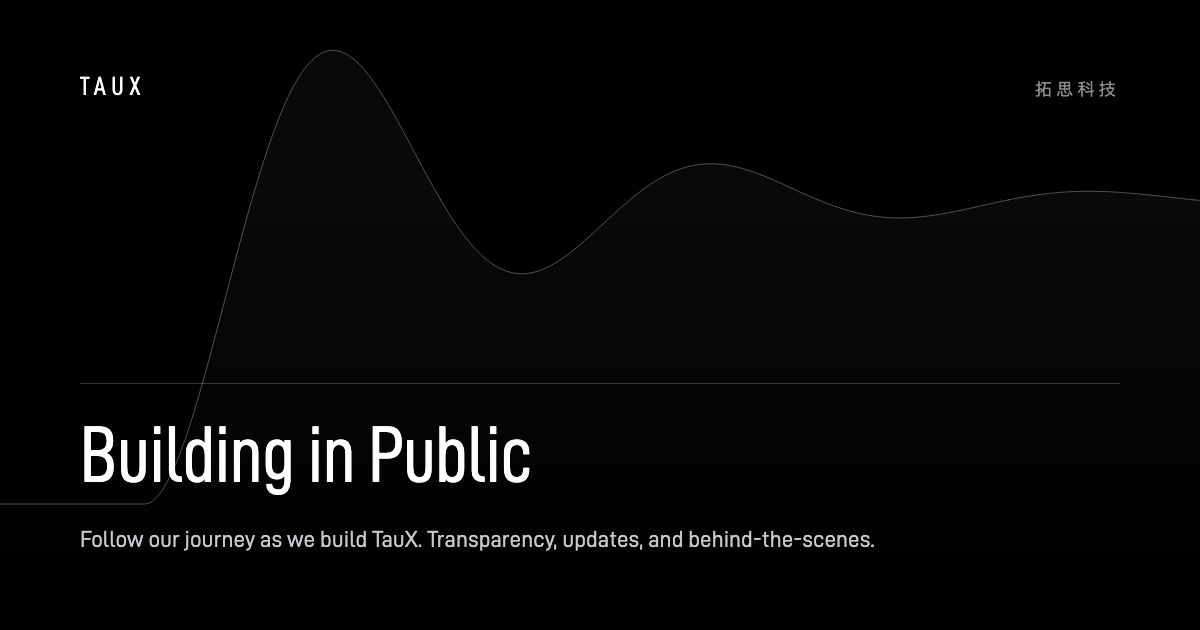
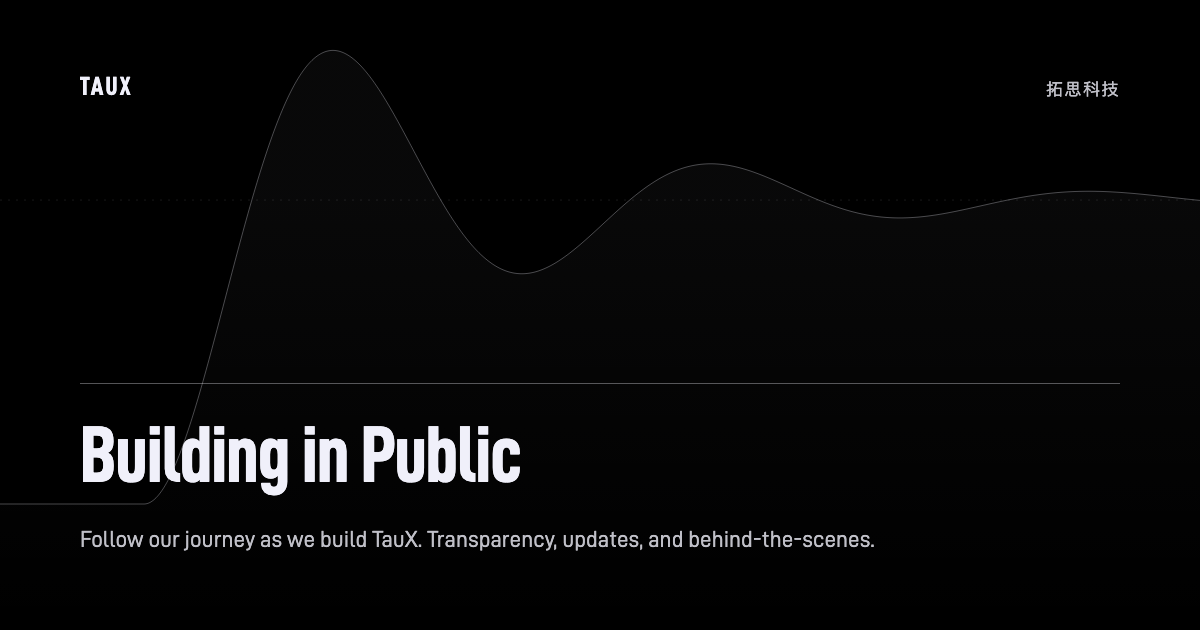
feat: share cards read the tokens instead of restating them
This builder hardcoded #fff, #c8c8cc, #8a8a91 and 0.25em, so every palette
change updated the site and quietly left fifteen share cards on the previous
one. A share card is the only asset seen away from the site and never noticed to
be wrong in a browser, which makes it the one most easily missed.

The fix is not to remember to update it. It reads --ink-rgb, --line-rgb and
--surface-deep-rgb out of src/input.css at build time and injects them as a
:root, so there is no second copy of the values to drift. It throws if a token
is missing rather than falling back to something plausible.

Typography follows the scale too: the wordmark and kicker come down from 0.22em
and 0.25em to 0.09em, and the headline is the bold face at -0.017em, which meant
inlining the bold Condensed face alongside the regular one. Line height stays at
1.1 rather than the scale's 1.0, because these titles are largely Chinese and
the card has no separate Latin lead to carry a tighter setting.

All fourteen cards rebuilt and checked as pixels: the new ink is present in tens
of thousands of them, and #ffffff and #c8c8cc are entirely absent.

The icon and logo builders are deliberately untouched. The icon's black does not
change, and the logo's white is used on a light background in structured data —
somebody once mistook that for a dark-mode mark and sent Google white on white.

Closes #67
Refs #49

Claude-Session: https://claude.ai/code/session_016DfbjjLS9HAyFwgAkRBsjN

Changed region(s): [[0.0617, 0.6635, 0.4625, 0.7841], [0.8633, 0.1206, 0.9558, 0.1508], [0.0617, 0.1206, 0.1233, 0.1508]]

diff --git a/scripts/assets/build-og.js b/scripts/assets/build-og.js
@@ -50,14 +50,15 @@ function routes() {
   }));
 }
 
-const CARD = (item, fontCss) => `
+const CARD = (item, fontCss, tokenCss) => `
 <style>
   ${fontCss}
+  ${tokenCss}
   * { margin: 0; box-sizing: border-box; }
   html, body { width: ${WIDTH}px; height: ${HEIGHT}px; }
   body {
-    background: #000;
-    color: #fff;
+    background: rgb(var(--surface-deep-rgb));
+    color: rgb(var(--ink-rgb));
     font-family: "D-DIN", "PingFang TC", sans-serif;
     display: flex; flex-direction: column; justify-content: space-between;
     padding: 72px 80px;
@@ -65,21 +66,21 @@ const CARD = (item, fontCss) => `
   }
   canvas { position: absolute; inset: 0; width: 100%; height: 100%; }
   .row { position: relative; z-index: 1; display: flex; justify-content: space-between; align-items: baseline; }
-  .mark { font-family: "D-DIN Condensed", sans-serif; font-size: 26px; letter-spacing: 0.22em; text-transform: uppercase; }
-  .kicker { font-family: "D-DIN Condensed", sans-serif; font-size: 17px; letter-spacing: 0.25em; text-transform: uppercase; color: #8a8a91; }
+  .mark { font-family: "D-DIN Condensed", sans-serif; font-weight: 700; font-size: 26px; letter-spacing: 0.09em; text-transform: uppercase; }
+  .kicker { font-family: "D-DIN Condensed", sans-serif; font-size: 17px; letter-spacing: 0.09em; text-transform: uppercase; color: rgb(var(--ink-rgb) / 0.8); }
   h1 {
     position: relative; z-index: 1;
     font-family: "D-DIN Condensed", "PingFang TC", sans-serif;
     font-size: ${item.title.length > 34 ? 62 : 80}px;
-    font-weight: 400; line-height: 1.1; letter-spacing: -0.01em;
+    font-weight: 700; line-height: 1.1; letter-spacing: -0.017em;
     max-width: 940px;
   }
   p {
     position: relative; z-index: 1;
-    color: #c8c8cc; font-size: 23px; line-height: 1.55; max-width: 820px;
+    color: rgb(var(--ink-rgb) / 0.8); font-size: 23px; line-height: 1.55; max-width: 820px;
     display: -webkit-box; -webkit-line-clamp: 2; -webkit-box-orient: vertical; overflow: hidden;
   }
-  .rule { position: relative; z-index: 1; height: 1px; background: rgba(255,255,255,0.2); margin-bottom: 28px; }
+  .rule { position: relative; z-index: 1; height: 1px; background: rgb(var(--line-rgb) / 0.35); margin-bottom: 28px; }
 </style>
 <canvas data-tau-curve="static"></canvas>
 <div class="row"><span class="mark">TauX</span><span class="kicker">拓思科技</span></div>
@@ -103,7 +104,26 @@ async function main() {
   const fontCss = [
     face("D-DIN", "D-DIN.woff2", 400),
     face("D-DIN Condensed", "D-DINCondensed.woff2", 400),
+    face("D-DIN Condensed", "D-DINCondensed-Bold.woff2", 700),
   ].join("\n");
+
+  // The tokens are read out of src/input.css rather than restated here.
+  //
+  // This file used to hardcode #fff, #c8c8cc, #8a8a91 and 0.25em, which meant a
+  // palette change updated the site and quietly left fifteen share cards on the
+  // previous one. A share card is the only asset that is seen away from the
+  // site and never noticed to be wrong in a browser, so it is the one most
+  // easily missed — the answer is not to remember, it is to not have a second
+  // copy of the values.
+  const rootCss = fs.readFileSync(path.join(ROOT, "src", "input.css"), "utf8");
+  const token = (name) => {
+    const m = new RegExp(`--${name}:\\s*([^;]+);`).exec(rootCss);
+    if (!m) throw new Error(`build-og: --${name} not found in src/input.css`);
+    return m[1].trim();
+  };
+  const tokenCss = `:root{--ink-rgb:${token("ink-rgb")};--line-rgb:${token(
+    "line-rgb"
+  )};--surface-deep-rgb:${token("surface-deep-rgb")};}`;
 
   const curveJs = fs.readFileSync(path.join(ROOT, "static", "js", "tau-curve.js"), "utf8");
 
@@ -116,7 +136,7 @@ async function main() {
   const page = await context.newPage();
 
   for (const item of items) {
-    await page.setContent(CARD(item, fontCss), { waitUntil: "load" });
+    await page.setContent(CARD(item, fontCss, tokenCss), { waitUntil: "load" });
     await page.addScriptTag({ content: curveJs });
     await page.evaluate(() => document.fonts.ready);
     await page.waitForTimeout(120);

diff --git a/DESIGN.md b/DESIGN.md
@@ -54,7 +54,7 @@
 | 版面 — 長文頁 | ✅ | #60 #61 #62 #63 #64 |
 | 版面 — 法務頁與 404 | ✅ | #65 |
 | 檢查（圓角） | ✅ | #66 |
-| 衍生資產 | 🔲 | #67 |
+| 衍生資產 | ✅ | #67 |
 | 動態（移除進場逐層淡入） | ✅ | #50 |
 
 每完成一個章節就把該列改成 ✅，並在同一個 commit 裡更新。**不要讓這張表落後於程式碼**——一份過時的規範比沒有規範更糟，讀它的人沒有理由懷疑它。
